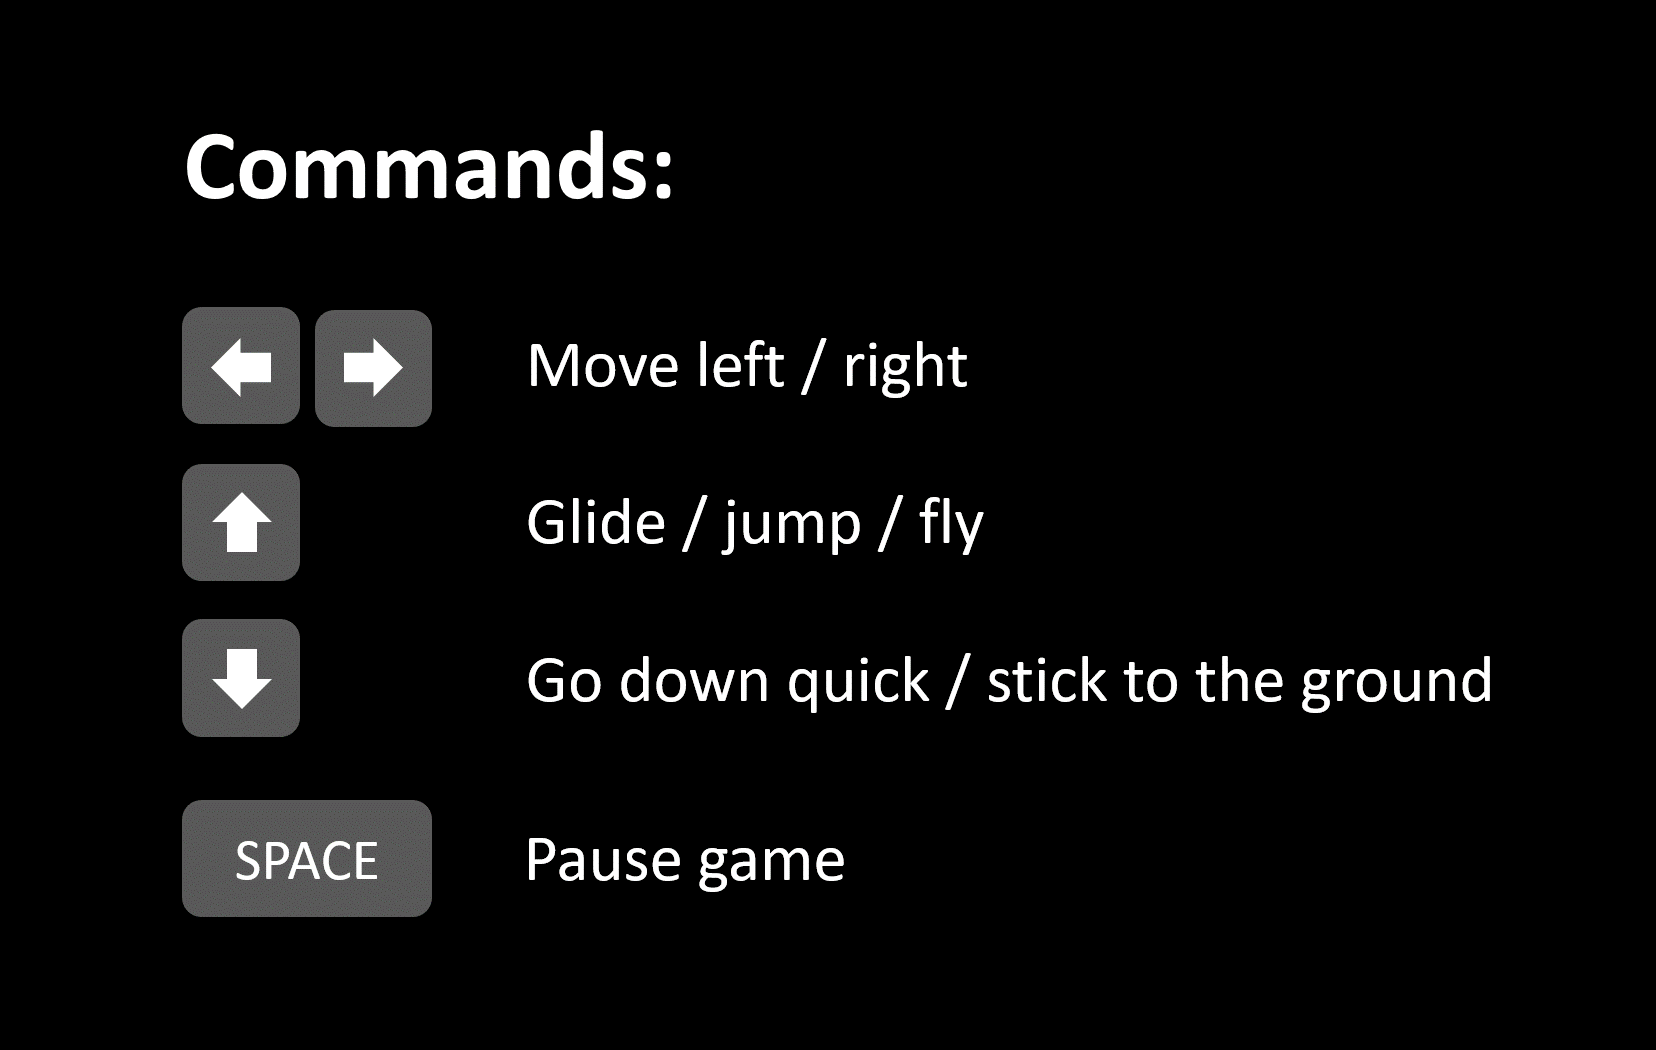
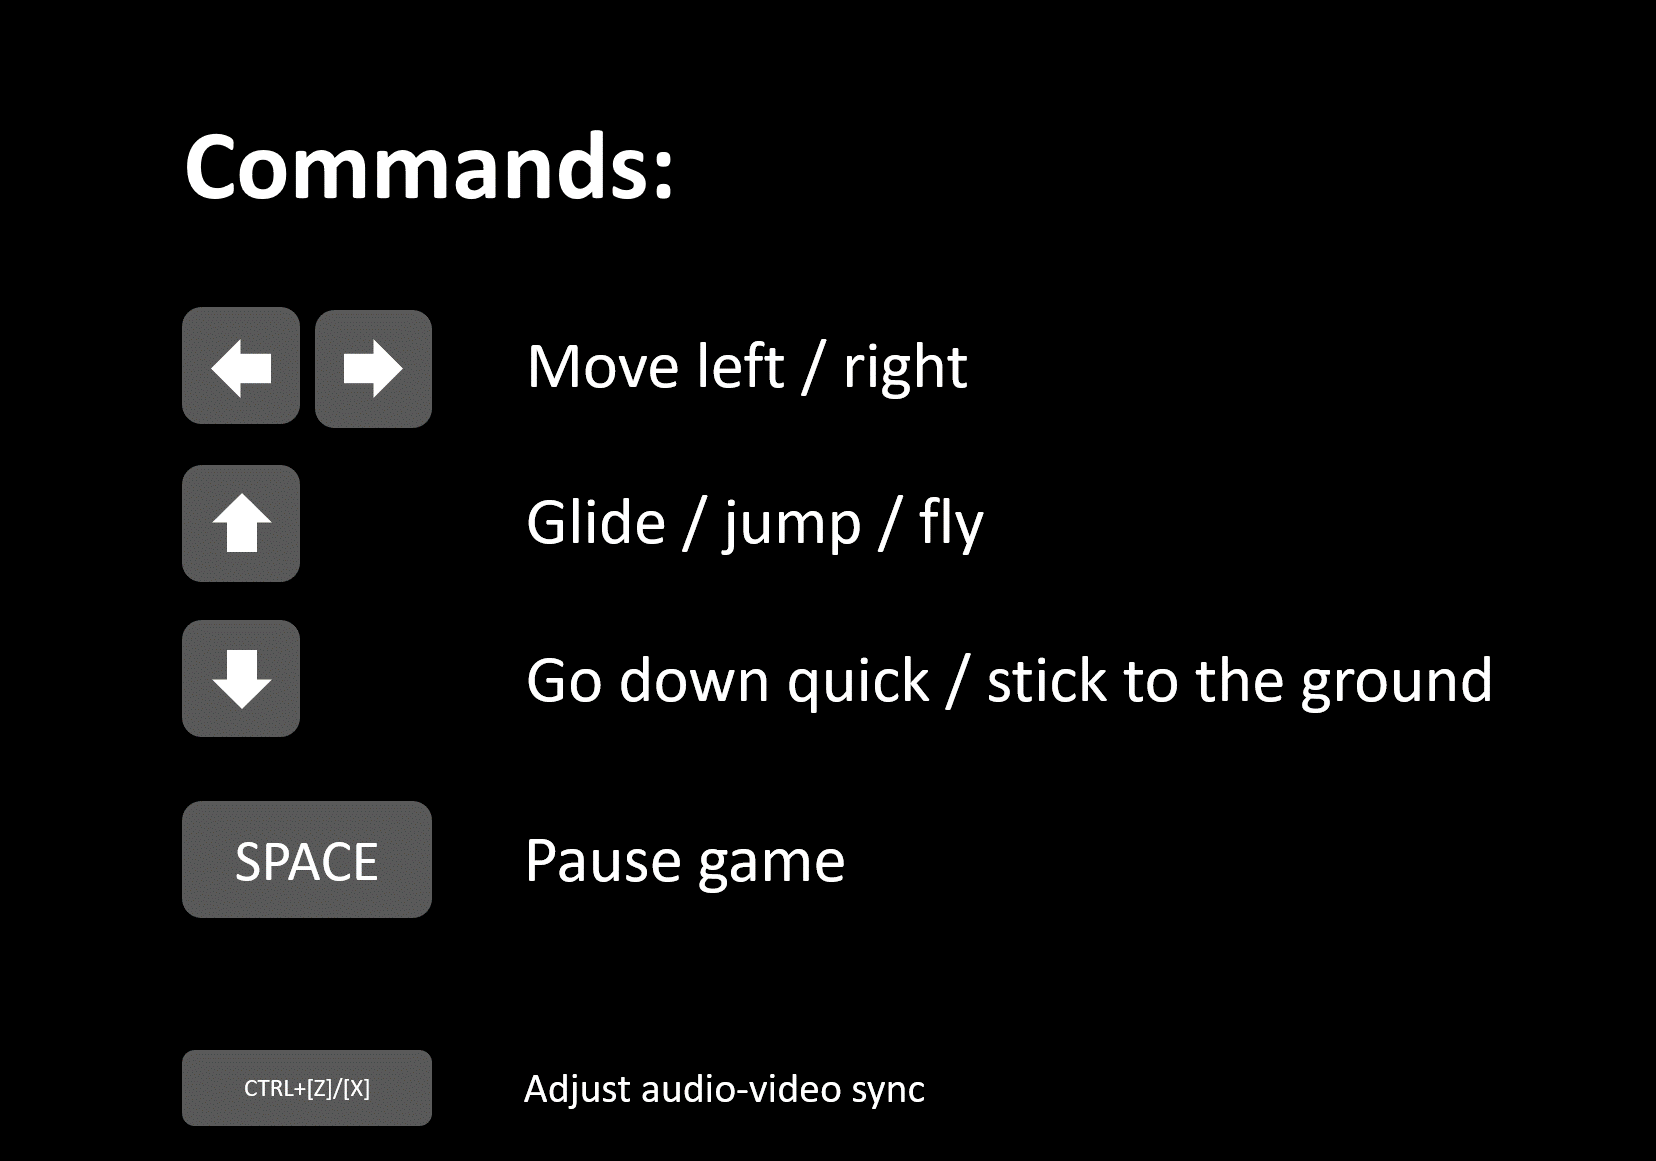
d

diff --git a/R.I.O. - Like I Love You.html b/R.I.O. - Like I Love You.html
@@ -12,15 +12,16 @@
 <div class="screen" id="menu" style="display: none">
 	<div id="menu_song_info">
 		<button class="div_button" id="app_name">Spectrum Rider</button>
-		<button class="div_button big_label" id="song_info_title">R.I.O. - Like I Love You</button>
+		<button class="div_button big_label" id="song_info_title">Kira - New World</button>
 	</div>
 	<div id="menu_buttons">
 		<button id="start_button">Play!</button>
-		<button id="options_button">Options</button>
+		<button id="instructions_button">Commands</button>
 	</div>
 </div>
-<div class="screen" id="options" style="display: none">
-	<button id="options_back_button">Back</button>
+<div class="screen" id="instructions" style="display: none">
+	<img id="commands_img" src="program/IMG/commands.png" alt="image">
+	<button id="instructions_back_button">Back</button>
 </div>
 <div class="screen" id="game_over" style="display: none">
 	<div id="game_over_info">

diff --git a/program/JS/App.js b/program/JS/App.js
@@ -472,8 +472,8 @@ class App {
             this.ctx_2d.fillText("Time-Shift: " + this.time_correction + "ms", this.ctx_2d.canvas.width - 60 - 5, 240);
             this.ctx_2d.fillText("Time-Stretch: " + (this.stretch_correction * 100).toFixed(3) + "%", this.ctx_2d.canvas.width - 60 - 5, 300);
             this.ctx_2d.font = '500 12px Arial';
-            this.ctx_2d.fillText("CTRL + [A]/[S]", this.ctx_2d.canvas.width - 60 - 5, 260);
-            this.ctx_2d.fillText("CTRL + [Z]/[X]", this.ctx_2d.canvas.width - 60 - 5, 320);
+            this.ctx_2d.fillText("CTRL + [Z]/[X]", this.ctx_2d.canvas.width - 60 - 5, 260);
+            this.ctx_2d.fillText("CTRL + [A]/[S]", this.ctx_2d.canvas.width - 60 - 5, 320);
 
 
         }

diff --git a/program/JS/OBJ/Obj_player.js b/program/JS/OBJ/Obj_player.js
@@ -41,9 +41,9 @@ class Obj_player extends Obj {
             
             void main() {
                 vec3 nNormal = normalize(fsNormal);
-                float h = 0.0;
-                float s = 0.0;
-                float v = 0.4 + clamp( pow(nNormal.z, 3.0) * 0.4 + pow(bassIntensity, 3.0), 0.0, 0.6);
+                float h = 0.5;
+                float s = 0.8;
+                float v = 0.3 + clamp( pow(nNormal.z, 3.0) * 0.4 + pow(bassIntensity, 3.0), 0.0, 0.7);
                 vec3 color = clamp(hsv2rgb_smooth(vec3(h,s,v)), 0.0, 1.0);
                 outColor = vec4(color, 1.0);
             }`;

diff --git a/program/CSS/main.css b/program/CSS/main.css
@@ -42,7 +42,7 @@ button {
 }
 button:hover{
     background-image: radial-gradient(at center center, rgb(5, 213, 213) 0%, rgb(0, 84, 155) 100%);
-    box-shadow: rgba(255, 255, 255, 0.84) 0px 0px 20px 10px;
+    box-shadow: rgba(255, 255, 255, 0.84) 0 0 20px 10px;
 }
 
 
@@ -115,6 +115,7 @@ button:hover{
         width: 50%;
         height: auto;
         left: 5%;
+        top:5%;
     }
     #instructions_back_button{
         top: 70%;

diff --git a/program/JS/COMPONENTS/Player.js b/program/JS/COMPONENTS/Player.js
@@ -1,7 +1,7 @@
 class Player extends Component{
     constructor(obj){
         super(obj);
-        this.scale = 1;
+        this.scale = 1.3;
     }
     get_world_matrix = () => {
         return utils.MakeWorld(
